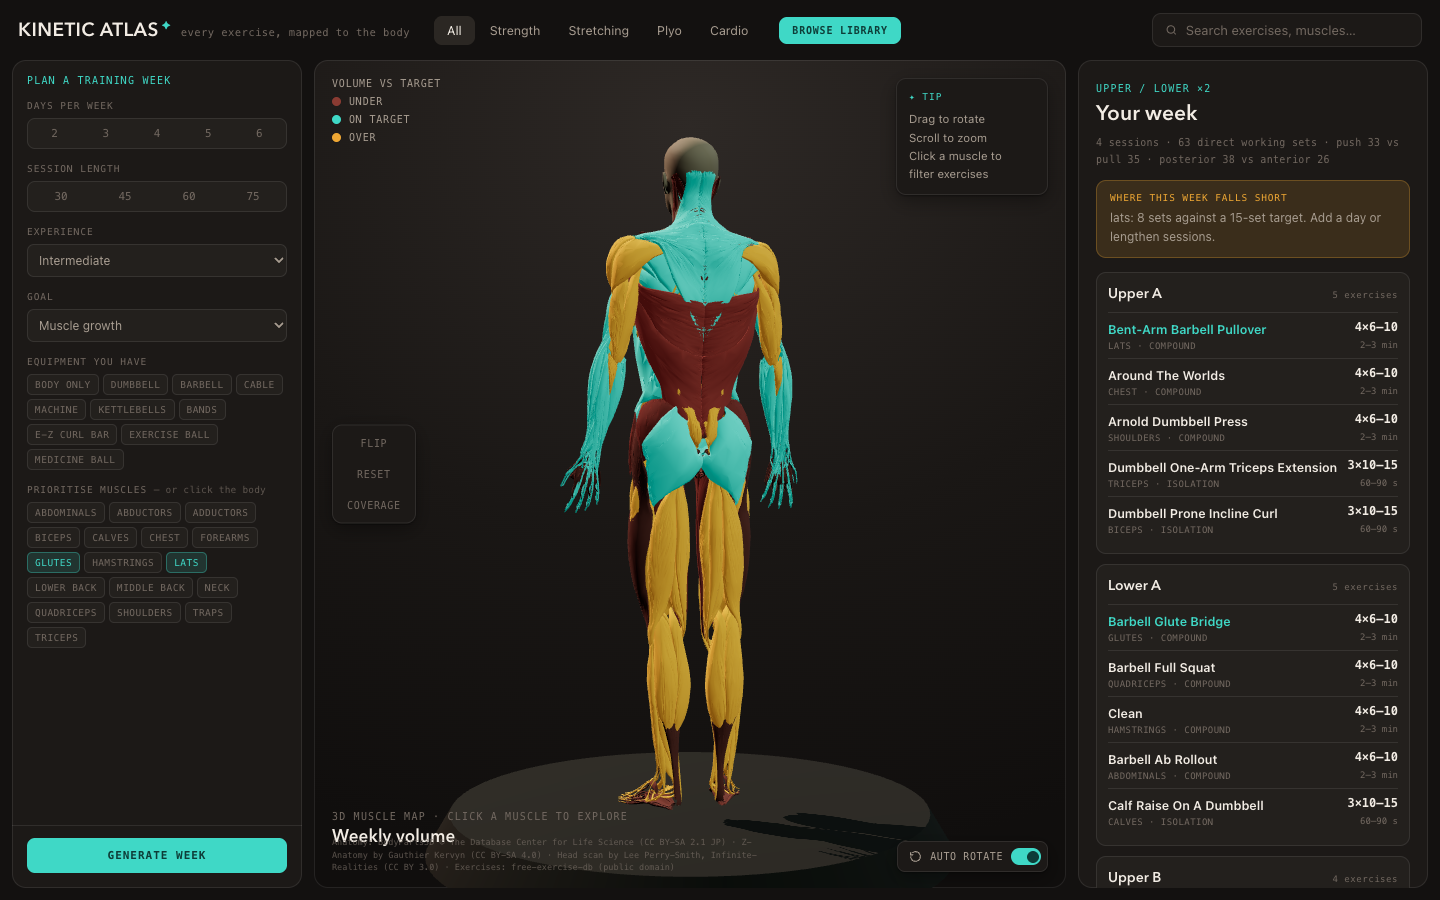
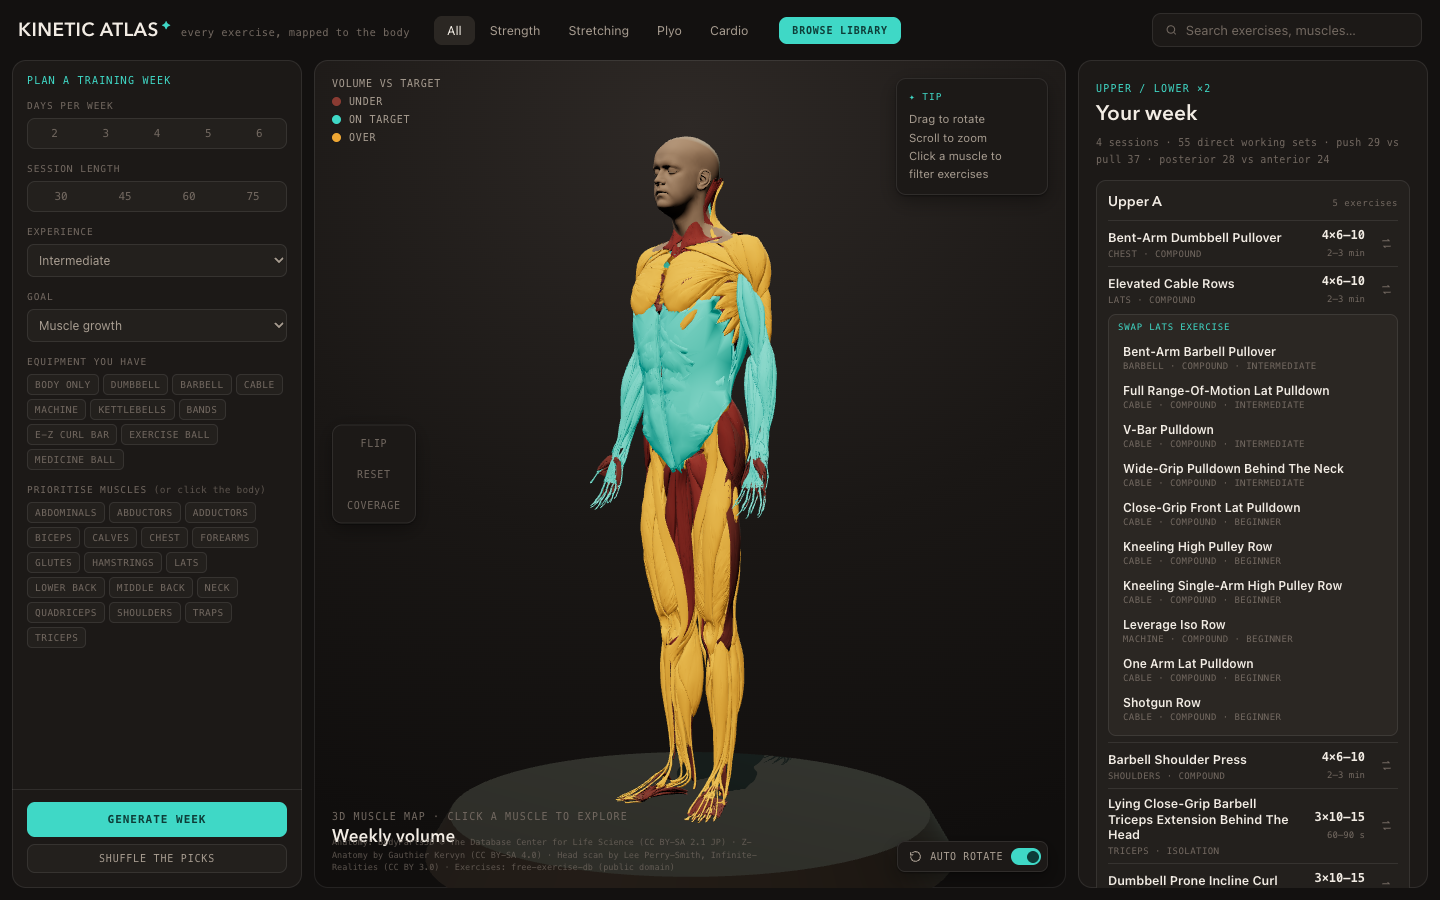
Swap any exercise in a plan, and shuffle the whole week
Each row gets a swap control listing other exercises for that same muscle,
filtered by the equipment the plan was built under and excluding what the
week already uses. Swapping re-derives sets, reps and rest, because a
compound replacing an isolation is a different prescription, then retallies
weekly volume, warnings and the body paint.

Shuffle walks each pick down its shortlist, so a reshuffle gives a
different but still sensible week rather than a random one.

diff --git a/plan.js b/plan.js
@@ -96,10 +96,78 @@ function scoreExercise(e, muscle, opts) {
   return s;
 }
 
+/* Every exercise a muscle could be trained with, given the same equipment
+   constraint the plan was built under, best first. */
+export function alternativesFor(plan, muscle, excludeId, limit = 10) {
+  const { usable, opts } = plan.ctx;
+  const taken = new Set();
+  for (const s of plan.sessions) for (const i of s.items) taken.add(i.exercise.id);
+  taken.delete(excludeId);
+  return usable
+    .filter(e => e.primaryMuscles.includes(muscle) && !taken.has(e.id) && e.id !== excludeId)
+    .sort((a, b) => scoreExercise(b, muscle, opts) - scoreExercise(a, muscle, opts))
+    .slice(0, limit);
+}
+
+/* Swapping changes the prescription when the replacement is a different
+   kind of movement, so sets and rest are re-derived, not carried over. */
+export function swapExercise(plan, dayIndex, itemIndex, exercise) {
+  const item = plan.sessions[dayIndex].items[itemIndex];
+  const vol = VOLUME[plan.level] || VOLUME.intermediate;
+  const reps = GOALS[plan.goal] || GOALS.hypertrophy;
+  const isCompound = exercise.mechanic === 'compound';
+  item.exercise = exercise;
+  item.sets = isCompound ? vol.setsCompound : vol.setsIsolation;
+  item.reps = isCompound ? reps.compound : reps.isolation;
+  item.rest = isCompound ? reps.restC : reps.restI;
+  retally(plan);
+  return plan;
+}
+
+/* recompute weekly volume and warnings from whatever the sessions now hold */
+export function retally(plan) {
+  const volume = {};
+  for (const m of MUSCLES) volume[m] = 0;
+  for (const s of plan.sessions) {
+    for (const it of s.items) {
+      volume[it.muscle] += it.sets;
+      for (const sec of it.exercise.secondaryMuscles) {
+        if (sec !== it.muscle && sec in volume) volume[sec] += it.sets * 0.5;
+      }
+    }
+  }
+  plan.volume = volume;
+  plan.warnings = warningsFor(volume, plan.ctx.prio, plan.target, plan.ctx.usable, plan.ctx.hasEquip);
+  return plan;
+}
+
+function warningsFor(volume, prio, target, usable, hasEquip) {
+  const warnings = [];
+  for (const m of prio) {
+    if (volume[m] < target * 0.7) {
+      warnings.push(`${m}: ${round(volume[m])} sets against a ${target}-set target. ${
+        hasEquip ? 'The selected equipment limits what can be programmed.' : 'Add a day or lengthen sessions.'}`);
+    }
+  }
+  for (const m of MUSCLES) {
+    if (!prio.has(m) && volume[m] > 0 && volume[m] < 4) {
+      warnings.push(`${m}: ${round(volume[m])} sets, below the ~4 needed to maintain.`);
+    }
+  }
+  if (hasEquip) {
+    for (const m of prio) {
+      if (!usable.some(e => e.primaryMuscles.includes(m))) {
+        warnings.push(`${m}: no exercise in the library trains this with the equipment selected.`);
+      }
+    }
+  }
+  return warnings;
+}
+
 export function buildPlan(all, opts) {
   const {
     days = 4, equipment = [], priority = [], level = 'intermediate',
-    goal = 'hypertrophy', minutes = 60,
+    goal = 'hypertrophy', minutes = 60, variety = 0,
   } = opts;
 
   const split = SPLITS[Math.min(6, Math.max(2, days))];
@@ -135,7 +203,12 @@ export function buildPlan(all, opts) {
       const pool = usable
         .filter(e => e.primaryMuscles.includes(muscle))
         .sort((a, b) => scoreExercise(b, muscle, opts) - scoreExercise(a, muscle, opts));
-      const pick = pool.find(e => !used.has(e.id)) || pool[0];
+      /* variety walks down the shortlist so a reshuffle gives a different
+         but still sensible week rather than a random one */
+      const avail = pool.filter(e => !used.has(e.id));
+      const pick = avail.length
+        ? avail[(variety + MUSCLES.indexOf(muscle)) % Math.min(avail.length, 5)]
+        : pool[0];
       if (!pick) continue;
       used.add(pick.id);
 
@@ -162,27 +235,13 @@ export function buildPlan(all, opts) {
     sessions.push({ name: day.name, items });
   }
 
-  /* ---- honest reporting of where the week falls short ---- */
-  const warnings = [];
-  for (const m of prio) {
-    if (volume[m] < vol.target * 0.7) {
-      warnings.push(`${m}: ${round(volume[m])} sets against a ${vol.target}-set target. ${
-        eqSet.size ? 'The selected equipment limits what can be programmed.' : 'Add a day or lengthen sessions.'}`);
-    }
-  }
-  for (const m of MUSCLES) {
-    if (!prio.has(m) && volume[m] > 0 && volume[m] < 4) {
-      warnings.push(`${m}: ${round(volume[m])} sets, below the ~4 needed to maintain.`);
-    }
-  }
-  if (eqSet.size) {
-    const missing = [...prio].filter(m => !usable.some(e => e.primaryMuscles.includes(m)));
-    for (const m of missing) {
-      warnings.push(`${m}: no exercise in the library trains this with the equipment selected.`);
-    }
-  }
+  const warnings = warningsFor(volume, prio, vol.target, usable, eqSet.size > 0);
 
-  return { split: split.name, sessions, volume, warnings, target: vol.target, goal, level };
+  return {
+    split: split.name, sessions, volume, warnings,
+    target: vol.target, goal, level, variety,
+    ctx: { usable, prio, opts, hasEquip: eqSet.size > 0 },
+  };
 }
 
 export const round = (n) => Math.round(n * 10) / 10;

diff --git a/app.js b/app.js
@@ -2,7 +2,7 @@ import * as THREE from 'three';
 import { OrbitControls } from './vendor/OrbitControls.js';
 import { GLTFLoader } from './vendor/GLTFLoader.js';
 import { DRACOLoader } from './vendor/DRACOLoader.js';
-import { buildPlan, balance, round } from './plan.js';
+import { buildPlan, balance, round, alternativesFor, swapExercise } from './plan.js';
 
 /* ============================================================
    Kinetic Atlas — 873 exercises mapped onto a real anatomical model
@@ -983,7 +983,8 @@ function initPlanner() {
     mu.appendChild(b);
   }
 
-  $('pfGo').addEventListener('click', generateWeek);
+  $('pfGo').addEventListener('click', () => generateWeek(0));
+  $('pfShuffle').addEventListener('click', () => generateWeek(planVariety + 1));
 }
 
 function togglePriority(m) {
@@ -995,14 +996,19 @@ function togglePriority(m) {
     ? `Priority: ${[...planPriority].join(', ')}` : 'Full body';
 }
 
-function generateWeek() {
+let planVariety = 0;
+
+function generateWeek(variety = 0) {
+  planVariety = variety;
   lastPlan = buildPlan(ALL, {
     days: planDays, minutes: planMinutes,
     level: $('pfLevel').value, goal: $('pfGoal').value,
     equipment: [...planEquip], priority: [...planPriority],
+    variety,
   });
   renderWeek(lastPlan);
   paintVolume(lastPlan);
+  $('pfShuffle').hidden = false;
 }
 
 function renderWeek(plan) {
@@ -1017,16 +1023,19 @@ function renderWeek(plan) {
     ? `<div class="warnbox"><span class="callout-title">Where this week falls short</span>${
         plan.warnings.map(w => `<p>${w}</p>`).join('')}</div>` : '';
 
-  const days = plan.sessions.map(s => `
+  const days = plan.sessions.map((s, di) => `
     <div class="daycard">
       <div class="dayhead"><span class="dayname">${s.name}</span><span class="daymeta">${s.items.length} exercises</span></div>
-      ${s.items.map(it => `
+      ${s.items.map((it, ii) => `
         <div class="planrow${it.priority ? ' prio' : ''}">
           <div class="pr-main">
             <button class="pr-name" data-ex="${it.exercise.id}">${it.exercise.name}</button>
             <span class="pr-sub">${it.muscle} · ${it.exercise.mechanic || 'compound'}</span>
           </div>
           <div class="pr-rx"><b>${it.sets}×${it.reps}</b><span>${it.rest}</span></div>
+          <button class="swapbtn" data-d="${di}" data-i="${ii}" title="Swap for another ${it.muscle} exercise" aria-label="Swap exercise">
+            <svg width="13" height="13" viewBox="0 0 24 24" fill="none" stroke="currentColor" stroke-width="2"><path d="M4 7h13l-3-3M20 17H7l3 3"/></svg>
+          </button>
         </div>`).join('')}
     </div>`).join('');
 
@@ -1055,6 +1064,8 @@ function renderWeek(plan) {
       const ex = ALL.find(e => e.id === b.dataset.ex);
       if (ex) showPlanExercise(ex);
     }));
+  $('weekBody').querySelectorAll('.swapbtn').forEach(b =>
+    b.addEventListener('click', () => openSwap(b, +b.dataset.d, +b.dataset.i)));
 }
 
 /* Paint the week against each muscle's own goal rather than against the
@@ -1131,3 +1142,35 @@ $('planBack').addEventListener('click', backToWeek);
 document.addEventListener('keydown', (e) => {
   if (e.key === 'Escape' && planMode && !$('planBack').hidden) backToWeek();
 });
+
+/* ---------- swapping an exercise inside a generated week ---------- */
+function openSwap(btn, dayIndex, itemIndex) {
+  const row = btn.closest('.planrow');
+  const existing = row.nextElementSibling;
+  if (existing && existing.classList.contains('swapbox')) { existing.remove(); return; }
+  document.querySelectorAll('.swapbox').forEach(el => el.remove());
+
+  const item = lastPlan.sessions[dayIndex].items[itemIndex];
+  const alts = alternativesFor(lastPlan, item.muscle, item.exercise.id);
+
+  const box = document.createElement('div');
+  box.className = 'swapbox';
+  if (!alts.length) {
+    box.innerHTML = `<p class="swapnone">No other ${item.muscle} exercise is available with the equipment selected.</p>`;
+  } else {
+    box.innerHTML = `<span class="swaphead">Swap ${item.muscle} exercise</span>` +
+      alts.map((e, i) => `
+        <button class="swapopt" data-i="${i}">
+          <span class="so-name">${e.name}</span>
+          <span class="so-meta">${e.equipment && e.equipment !== 'None' ? e.equipment : 'body only'} · ${e.mechanic || '—'} · ${e.level}</span>
+        </button>`).join('');
+  }
+  row.insertAdjacentElement('afterend', box);
+
+  box.querySelectorAll('.swapopt').forEach(b =>
+    b.addEventListener('click', () => {
+      swapExercise(lastPlan, dayIndex, itemIndex, alts[+b.dataset.i]);
+      renderWeek(lastPlan);
+      paintVolume(lastPlan);
+    }));
+}

diff --git a/styles.css b/styles.css
@@ -451,3 +451,38 @@ body {
   padding: 12px 18px; border-bottom: 1px solid var(--line);
 }
 .backbar:hover { background: var(--panel-2); }
+
+/* ---------- swap ---------- */
+.planrow { position: relative; }
+.swapbtn {
+  border: 0; background: transparent; cursor: pointer; flex: none;
+  color: var(--ink-3); padding: 5px; border-radius: 6px; line-height: 0;
+  transition: color 0.12s, background 0.12s;
+}
+.swapbtn:hover { color: var(--accent); background: var(--accent-soft); }
+.swapbox {
+  background: var(--panel-3); border-radius: 8px; padding: 8px;
+  margin: 2px 0 6px; box-shadow: inset 0 0 0 1px var(--line);
+}
+.swaphead {
+  display: block; font-family: var(--mono); font-size: 9px; letter-spacing: 0.09em;
+  text-transform: uppercase; color: var(--accent); margin-bottom: 6px; padding: 0 2px;
+}
+.swapopt {
+  display: block; width: 100%; text-align: left; border: 0; background: transparent;
+  font: inherit; cursor: pointer; padding: 6px 7px; border-radius: 6px; transition: background 0.12s;
+}
+.swapopt:hover { background: rgba(255,255,255,0.06); }
+.so-name { display: block; font-size: 12px; font-weight: 600; color: var(--ink); line-height: 1.25; }
+.so-meta {
+  display: block; font-family: var(--mono); font-size: 9px; color: var(--ink-3);
+  text-transform: uppercase; letter-spacing: 0.05em; margin-top: 2px;
+}
+.swapnone { font-size: 11.5px; line-height: 1.5; color: var(--ink-3); padding: 4px 3px; }
+.ghostbtn {
+  width: 100%; margin-top: 7px; border: 0; font: inherit; font-family: var(--mono); cursor: pointer;
+  font-size: 10px; letter-spacing: 0.08em; text-transform: uppercase;
+  color: var(--ink-2); background: var(--panel-2); padding: 9px; border-radius: 8px;
+  box-shadow: inset 0 0 0 1px var(--line);
+}
+.ghostbtn:hover { color: var(--ink); background: var(--panel-3); }

diff --git a/index.html b/index.html
@@ -65,6 +65,7 @@
       </div>
       <div class="planfoot">
         <button class="primarybtn" id="pfGo">Generate week</button>
+        <button class="ghostbtn" id="pfShuffle" hidden>Shuffle the picks</button>
       </div>
     </aside>
 
